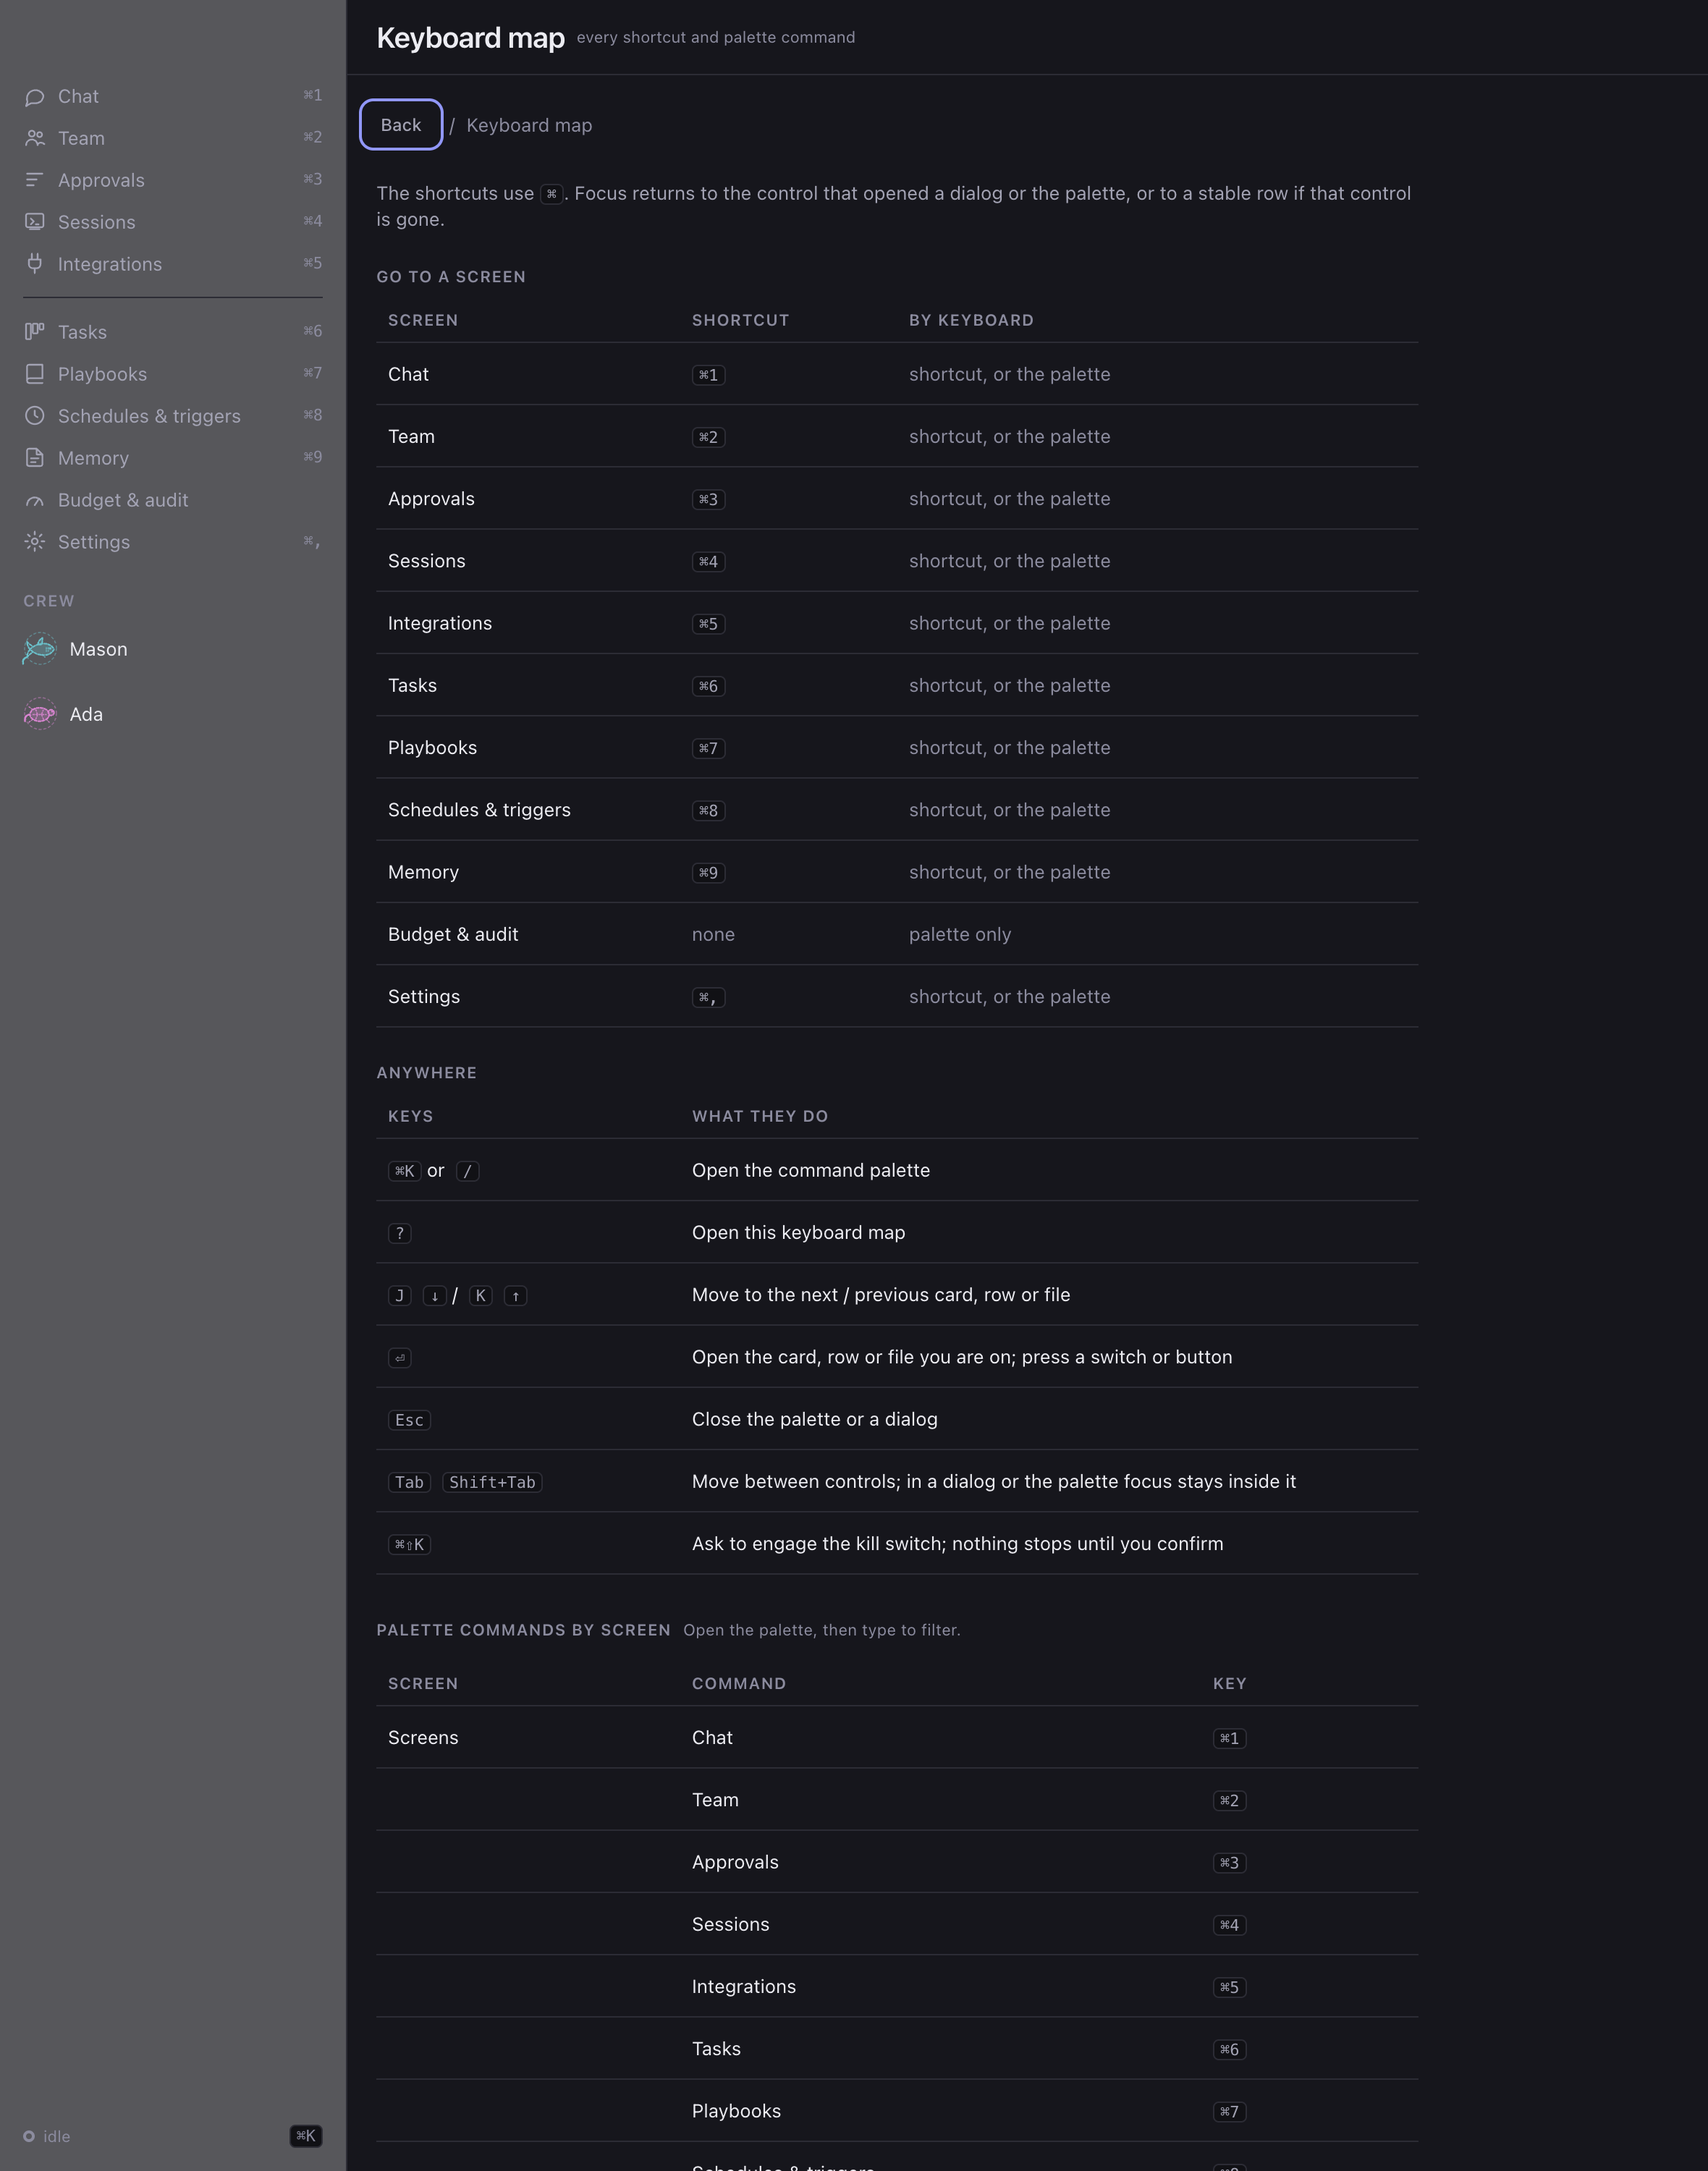
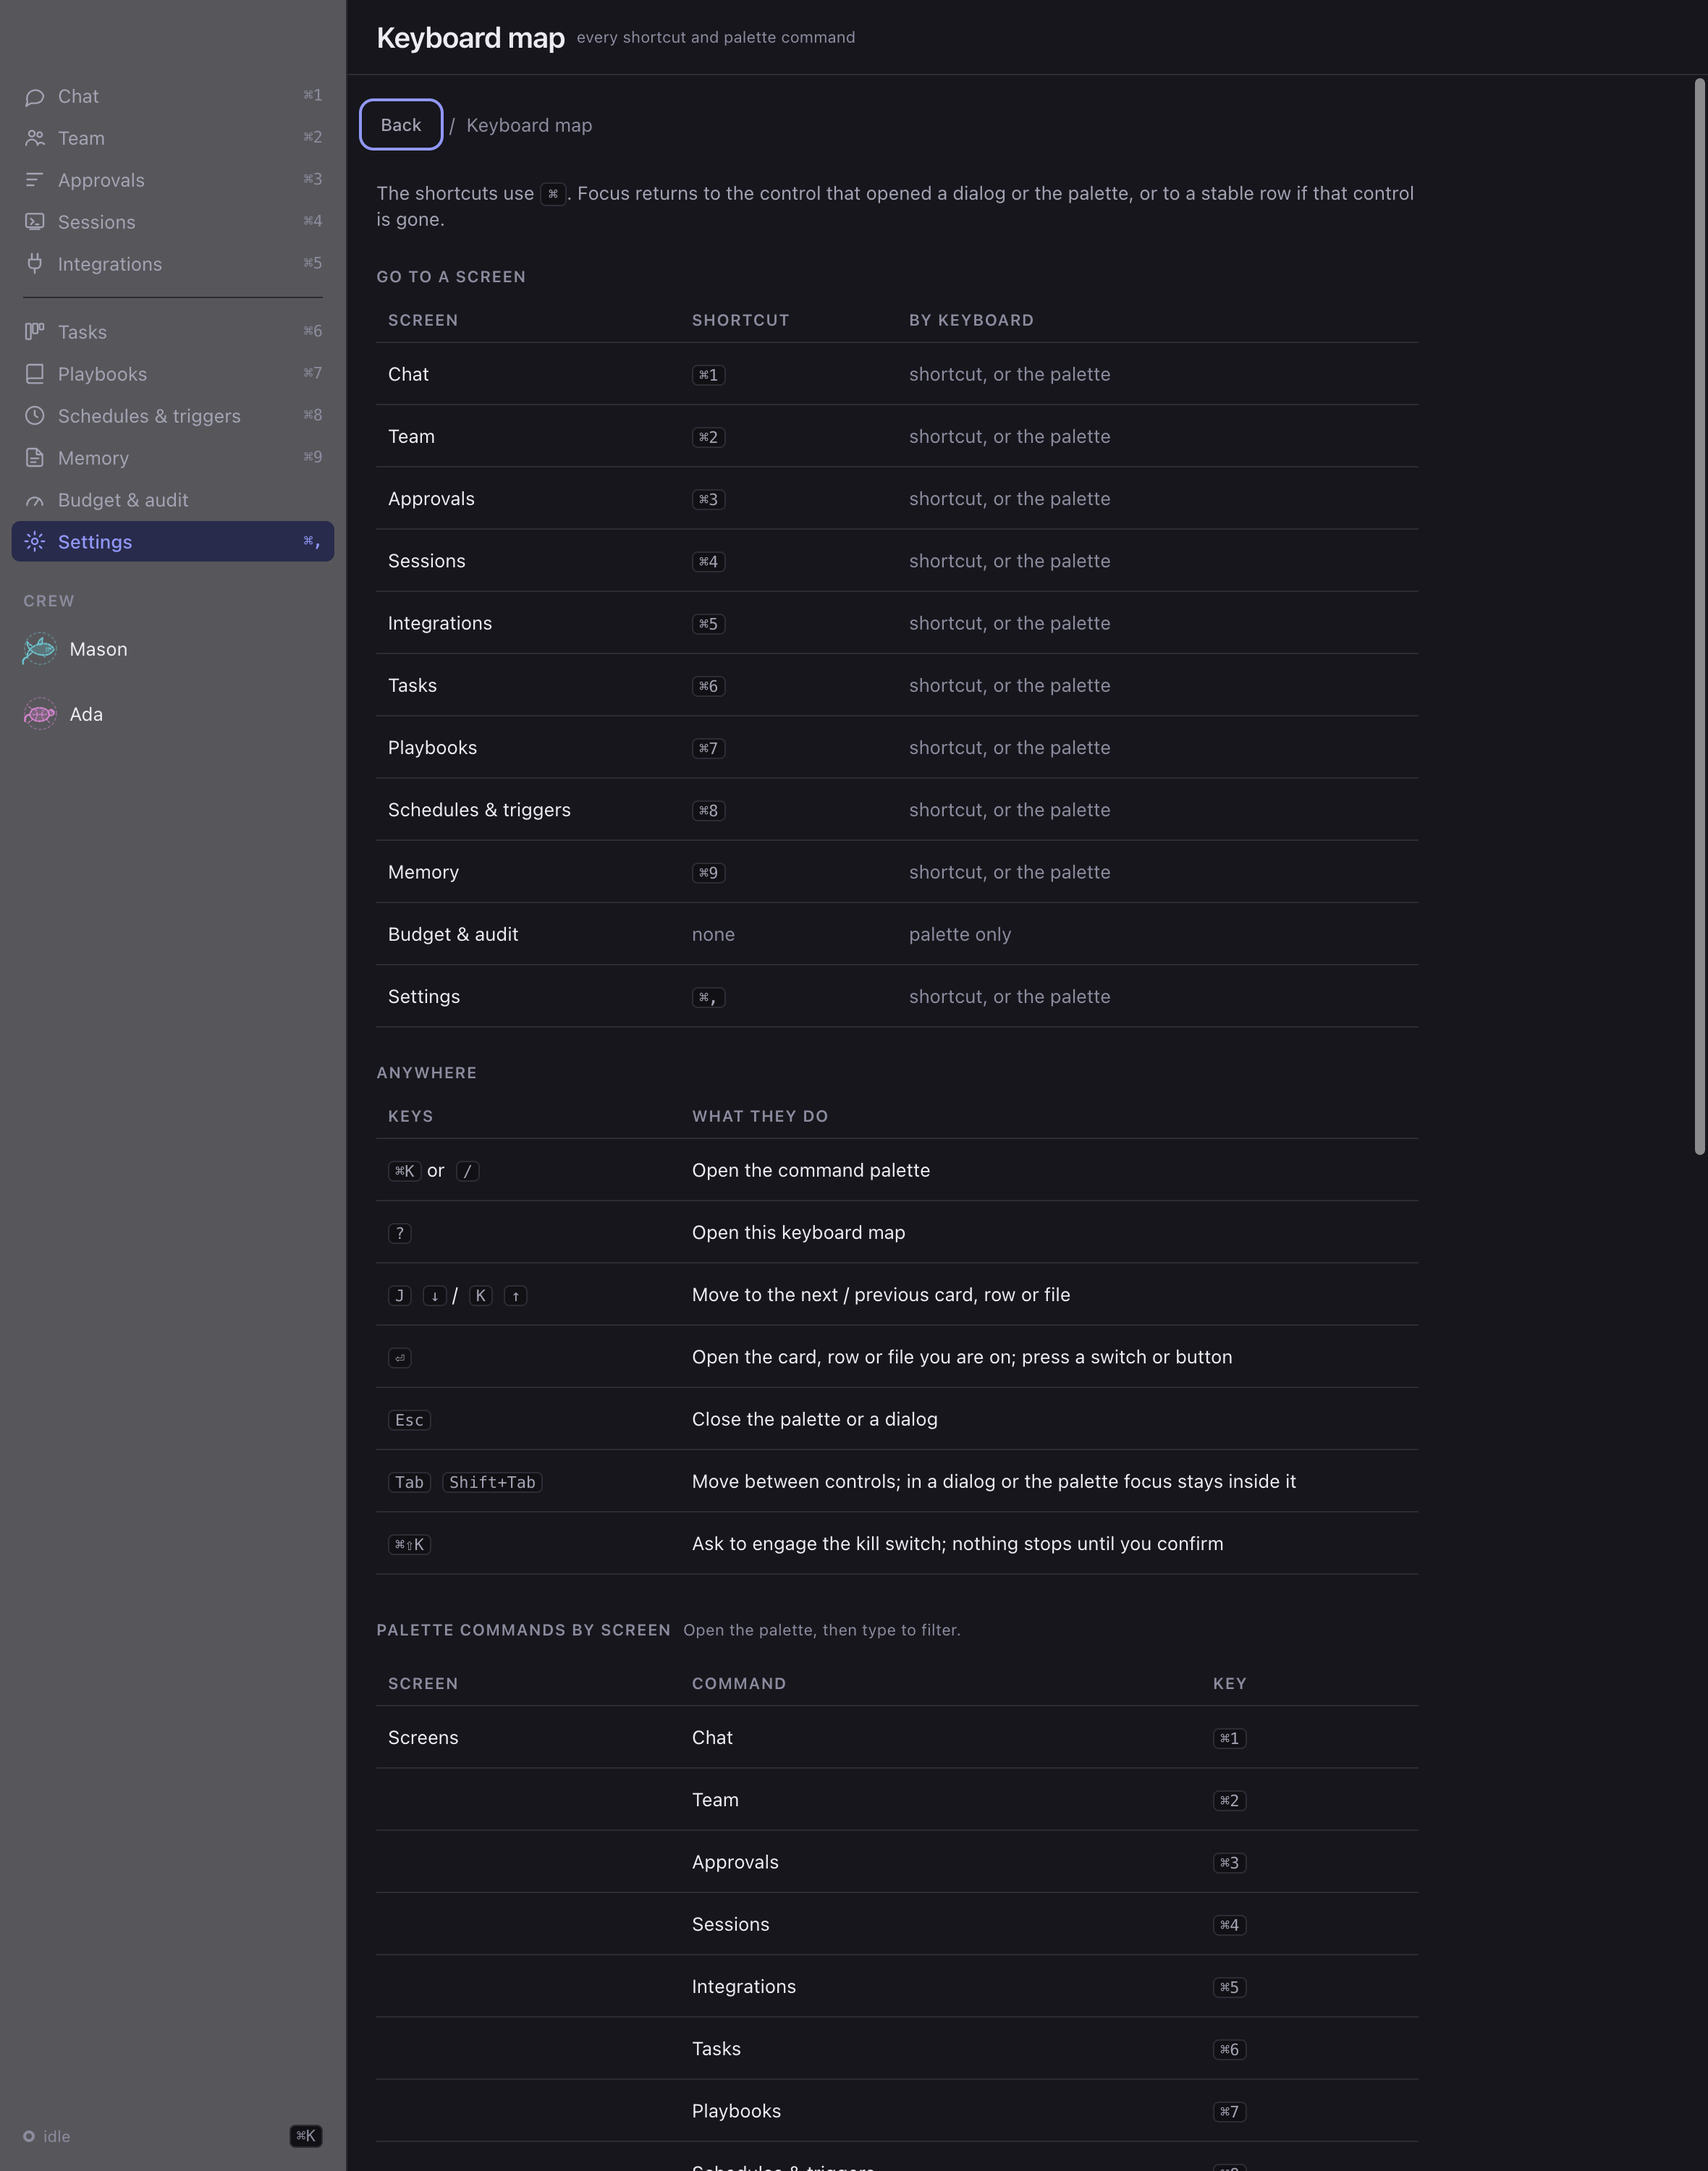
docs(evidence): keyboard polish screenshots for the map at its top and Memory after a palette run
Re-shot keymap-light/dark from a scrolled Settings (map at its top, Settings marked) and added
memory-populated-light/dark (Memory opened by the palette, focus inside it). README names each against
its gui-v2.html view and records the opener-vs-static-parent difference and the fixture-kernel capture note.

diff --git a/docs/evidence/phase-7-polish/keyboard/README.md b/docs/evidence/phase-7-polish/keyboard/README.md
@@ -1,6 +1,6 @@
 # Keyboard polish evidence: the Keyboard map and the palette (phase 7, item 13)
 
-These are screenshots of the built app's Keyboard map and of the `⌘K` palette open over Tasks, in the two views of the GUI v2 mockup (`docs/design/mockups/gui-v2.html`) they match, each in light and dark mode (4 files). Each was taken by `app/e2e/keyboard.spec.ts` through `app/e2e/electron-harness.ts` against the fixture kernel (`app/e2e/fixtures/phase-7-exit.ts`), so no real account, repo, token or store was involved. The Tasks shot uses the window's default 1180 by 760 px; the Keyboard map shot uses a window 1500 px tall so more of its tables are in view (the PNGs are 2x).
+These are screenshots of the built app's Keyboard map, of the `⌘K` palette open over Tasks, and of Memory opened by that palette, in the three views of the GUI v2 mockup (`docs/design/mockups/gui-v2.html`) they match, each in light and dark mode (6 files). Each was taken by `app/e2e/keyboard.spec.ts` through `app/e2e/electron-harness.ts` against the fixture kernel (`app/e2e/fixtures/phase-7-exit.ts`), so no real account, repo, token or store was involved. The Tasks and Memory shots use the window's default 1180 by 760 px; the Keyboard map shot is taken after `?` from a Settings scrolled down at the default size, and then uses a window 1500 px tall so more of its tables are in view (the PNGs are 2x).
 
 To regenerate the screenshots (macOS):
 
@@ -8,14 +8,15 @@ To regenerate the screenshots (macOS):
 cd app && npm run build && KEYBOARD_EVIDENCE=1 npx playwright test e2e/keyboard.spec.ts --workers=1
 ```
 
-Without `KEYBOARD_EVIDENCE=1` the spec writes its screenshots to Playwright's per-test output directory, so CI never changes these files, and one of its tests fails if any file in this directory is newer than the run's start. Another test fails if this README stops naming a light and a dark file for a view, or if a file here is not named. The spec checks behaviour and never compares pixels, because fonts differ between macOS and the Ubuntu CI run. All 4 files were captured on macOS on 2026-11-01. In the dark shots the sidebar reads grey: it is translucent over the window's vibrancy, which a headless capture does not have.
+Without `KEYBOARD_EVIDENCE=1` the spec writes its screenshots to Playwright's per-test output directory, so CI never changes these files, and one of its tests fails if any file in this directory is newer than the run's start. Another test fails if this README stops naming a light and a dark file for a view, or if a file here is not named. The spec checks behaviour and never compares pixels, because fonts differ between macOS and the Ubuntu CI run. All 6 files were captured on macOS on 2026-11-01. In the dark shots the sidebar reads grey: it is translucent over the window's vibrancy, which a headless capture does not have.
 
 ## Screenshots
 
 | Screenshot (light / dark) | Mockup view | What it shows |
 |---|---|---|
-| [light](keymap-light.png) / [dark](keymap-dark.png) | `keymap` | Opened with `?` from Tasks: the title bar with its count line, Back focused (it returns to Tasks), "Go to a screen" (each sidebar screen with its shortcut, Budget & audit with `none` / `palette only`), "Anywhere" and the start of "Palette commands by screen". |
+| [light](keymap-light.png) / [dark](keymap-dark.png) | `keymap` | Opened with `?` from a Settings scrolled down, and shown at its top (`.content` `scrollTop` 0): the title bar with its count line, Settings marked in the sidebar (the screen it was opened from), Back focused (it returns to Settings), "Go to a screen" (each sidebar screen with its shortcut, Budget & audit with `none` / `palette only`), "Anywhere" and the start of "Palette commands by screen". |
 | [light](tasks-populated-palette-light.png) / [dark](tasks-populated-palette-dark.png) | `tasks-populated`, palette open | `⌘K` pressed on Tasks (8 cards, 3 working): the focused search input, the Screens group (the first eight rows and "Show all 11"), the Agents group, and the footer "Wright, powered by Claude". The sidebar shows Tasks as current and every `⌘` label. |
+| [light](memory-populated-light.png) / [dark](memory-populated-dark.png) | `memory-populated` | Memory opened by the palette (`⌘K`, "Memory", Enter) from Tasks: focus is on the first control inside Memory (the first file, with its focus ring) and no sidebar entry holds the focus ring; Memory is the one marked entry. |
 
 ## What this PR changes
 
@@ -23,7 +24,9 @@ Without `KEYBOARD_EVIDENCE=1` the spec writes its screenshots to Playwright's pe
 2. **The Keyboard map** is `#/keymap` (`app/src/screens/keymap/`), a screen with no sidebar entry, reached by `?` or the palette's "Keyboard map" command.
 3. **One owner for each chord.** The application menu holds no accelerator for `⌘1` to `⌘9`, `⌘,` or `⌘K`; a test reads the launched app's menu.
 4. **The kill confirm holds every key behind it**, however it was opened.
-5. **`KNOWN_GAPS` is empty** in `app/e2e/phase-7-exit.spec.ts`: `keymap` is a click-through mapped to `keyboard.spec.ts`.
+5. **Focus after a palette run.** When the palette runs a command that changes the hash (a screen), `KeyboardHost` moves focus into the opened screen once it has rendered: the first control inside its `screen-<id>` root, or the root itself. It skips the move when focus is already inside `.content` or in a text field. `⌘1` to `⌘9`, a sidebar click or Enter, Esc, and a command that changes no hash leave focus where it was.
+6. **The Keyboard map opens at its top** (`.content` is one scrolling element shared by every screen, so the map resets it), and **the sidebar marks the screen the map was opened from** (Settings for a deep link onto the map).
+7. **`KNOWN_GAPS` is empty** in `app/e2e/phase-7-exit.spec.ts`: `keymap` is a click-through mapped to `keyboard.spec.ts`.
 
 ## Known remaining differences from the mockup
 
@@ -32,5 +35,7 @@ Without `KEYBOARD_EVIDENCE=1` the spec writes its screenshots to Playwright's pe
 - **"Palette commands by screen" lists what the registry holds now**, with the group, the title and the key. A screen's own commands (Memory's "Open memory/…", Budget & audit's "Open the audit log") appear while that screen is open, and the mockup lists every one at all times. A fixed list would drift from the keys, so it is read from the registry. The mockup's "Shown" column has no data behind it in the registry and is not drawn.
 - **The Keyboard map shot is cut at the window's height.** A 1500 px window shows the three tables down to the palette-commands rows; the rest of that table scrolls.
 - **Tasks has a command of its own** in the app (Stop and Kill on the open card), so the mockup's caption "Tasks has no command of its own" is not drawn.
+- **The sidebar mark follows the opener, not a fixed parent.** The mockup's `navHTML` marks the map's static parent (`parent:'settings'`, always Settings). The app marks the screen the map was actually opened from (Tasks when opened from Tasks), and Settings only for a deep link onto the map.
+- **These are fixture-kernel captures.** They are taken through `app/e2e/electron-harness.ts` against the fixture kernel, so the owner's decision that screenshots stay outside the repo (about live-run captures of the real store) does not cover them.
 - **Focus.** Opening the map puts focus on Back, as the mockup does. Back goes to the screen the map was opened from, and to Settings when the window opened on the map itself.
 - **Playbooks detail has no Esc** to return to the list (Tasks and Memory do); it is outside this item and recorded in `docs/OPEN_QUESTIONS.md`.
